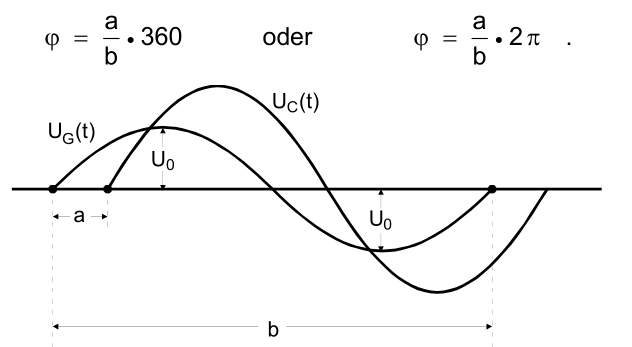
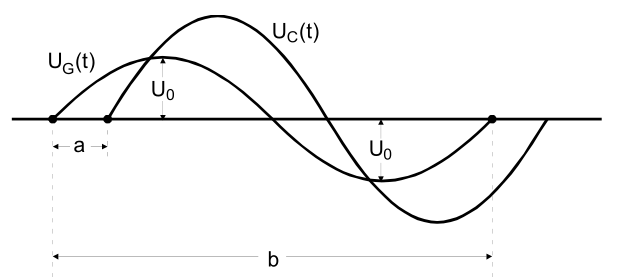
durchführung

diff --git a/V353/content/durchfuehrung.tex b/V353/content/durchfuehrung.tex
@@ -1,2 +1,59 @@
 \section{Durchführung}
 \label{sec:Durchführung}
+
+\subsection{Bestimmung der Zeitkonstante durch einen Ent- oder Aufladevorgang}
+
+    Zuerst wird eine Schaltung gemäß der \autoref{fig:schaltunga} aufgebaut. Es handelt sich dabei um einen $RC$-Kreis, also eine Reihenschaltung eines Widerstandes
+    und eines Kondensators. Der Kreis wird mit einer rechteckförmigen Spannung gespeist, und die Kondensatorspannugn wird abgegriffen und auf einem Oszillograph
+    sichtbar gemacht. 
+
+    \begin{figure}[H]
+        \centering
+        \includegraphics[width=0.6\textwidth]{bilder/aufbau_schaltunga.jpg}
+        \caption{Die Schaltung zur Messung eines Ent- oder Aufladevorgangs. \cite{anleitung}}
+        \label{fig:schaltunga}
+    \end{figure}
+
+    \noindent Das Oszilloskop ist so einzustellen, dass sich ein einzelner Ent- oder Aufladevorgang gut ablesen lässt, wie es in der \autoref{fig:entladekurvetheo}
+    zu sehen ist.
+
+    \begin{figure}
+        \centering
+        \includegraphics[width=0.6\textwidth]{bilder/Entladekurve.PNG}
+        \caption{Das Beispiel eines auf einem Oszilloskop sichtbar gemachtem Entladevorgang eines Kondensators über einen Widerstand. \cite{anleitung}}
+        \label{fig:entladekurvetheo}
+    \end{figure}
+
+
+\subsection{Bestimmung der Zeitkonstante durch die Amplitude}
+
+    Für diese Messung wird auch der Schaltkreis gemäß \autoref{fig:schaltunga} genutzt, jedoch wird nun mit einer Sinusspannung gespeist. Nun wird die 
+    Kondensatorspannung wieder auf dem Schirm des Oszillograph angezeigt und ihre Amplitude abgelesen. Die Frequenz der Sinusspannung wird von 
+    $\SI{10}{\hertz}$ bis $\SI{10}{\kilo\hertz}$ variert. 
+
+
+\subsection{Bestimmung der Zeitkonstante durch die Phasenverschiebung}
+
+    Zur Messung der Zeitkonstante durch die Phasenverschiebung zwischen Speise- und Kondensatorspannung, wird ein Schaltkreis nach der \autoref{fig:schaltungc}
+    aufgebaut. 
+
+    \begin{figure}[H]
+        \centering
+        \includegraphics[width=0.6\textwidth]{bilder/aufbau_schaltungc.jpg}
+        \caption{Ein Schaltkreis zur Ermittelung der Phasendifferenz zwischen Kondensator- und Speisespannung mit Hilfe eines Zweikanal-Oszilloskop. \cite{anleitung}}
+        \label{fig:schaltungc}
+    \end{figure}
+
+    \noindent Es handelt sich hierbei wiedermals um einen $RC$-Kreis, welche mit einer Sinusspannung gespeist wird. Nun werden jedoch die Kondensator- und die 
+    Speisespannung auf dem Oszillographenschirm angezeigt. Es sollte sich ein ähnliches Bild zu \autoref{fig:zweistrahlosz} ergeben; die Werte für $a$ und $b$
+    werden notiert, wobei $b$ der Schwingungsdauer entspricht. Die Phasenverschiebung ist gegeben durch.
+    \begin{equation*}
+        \varphi = \frac{a}{b} \cdot 2 \pi
+    \end{equation*}
+
+    \begin{figure}
+        \centerung
+        \includegraphics[width=0.6\textwidth]{bilder/Zweistrahloszillograph.PNG}
+        \caption{Messung der Phasenverschiebung zwischen zwei Spannungen mit dem Zweistrahloszillographen.}
+        \label{fig:zweistrahlosz}
+    \end{figure}
